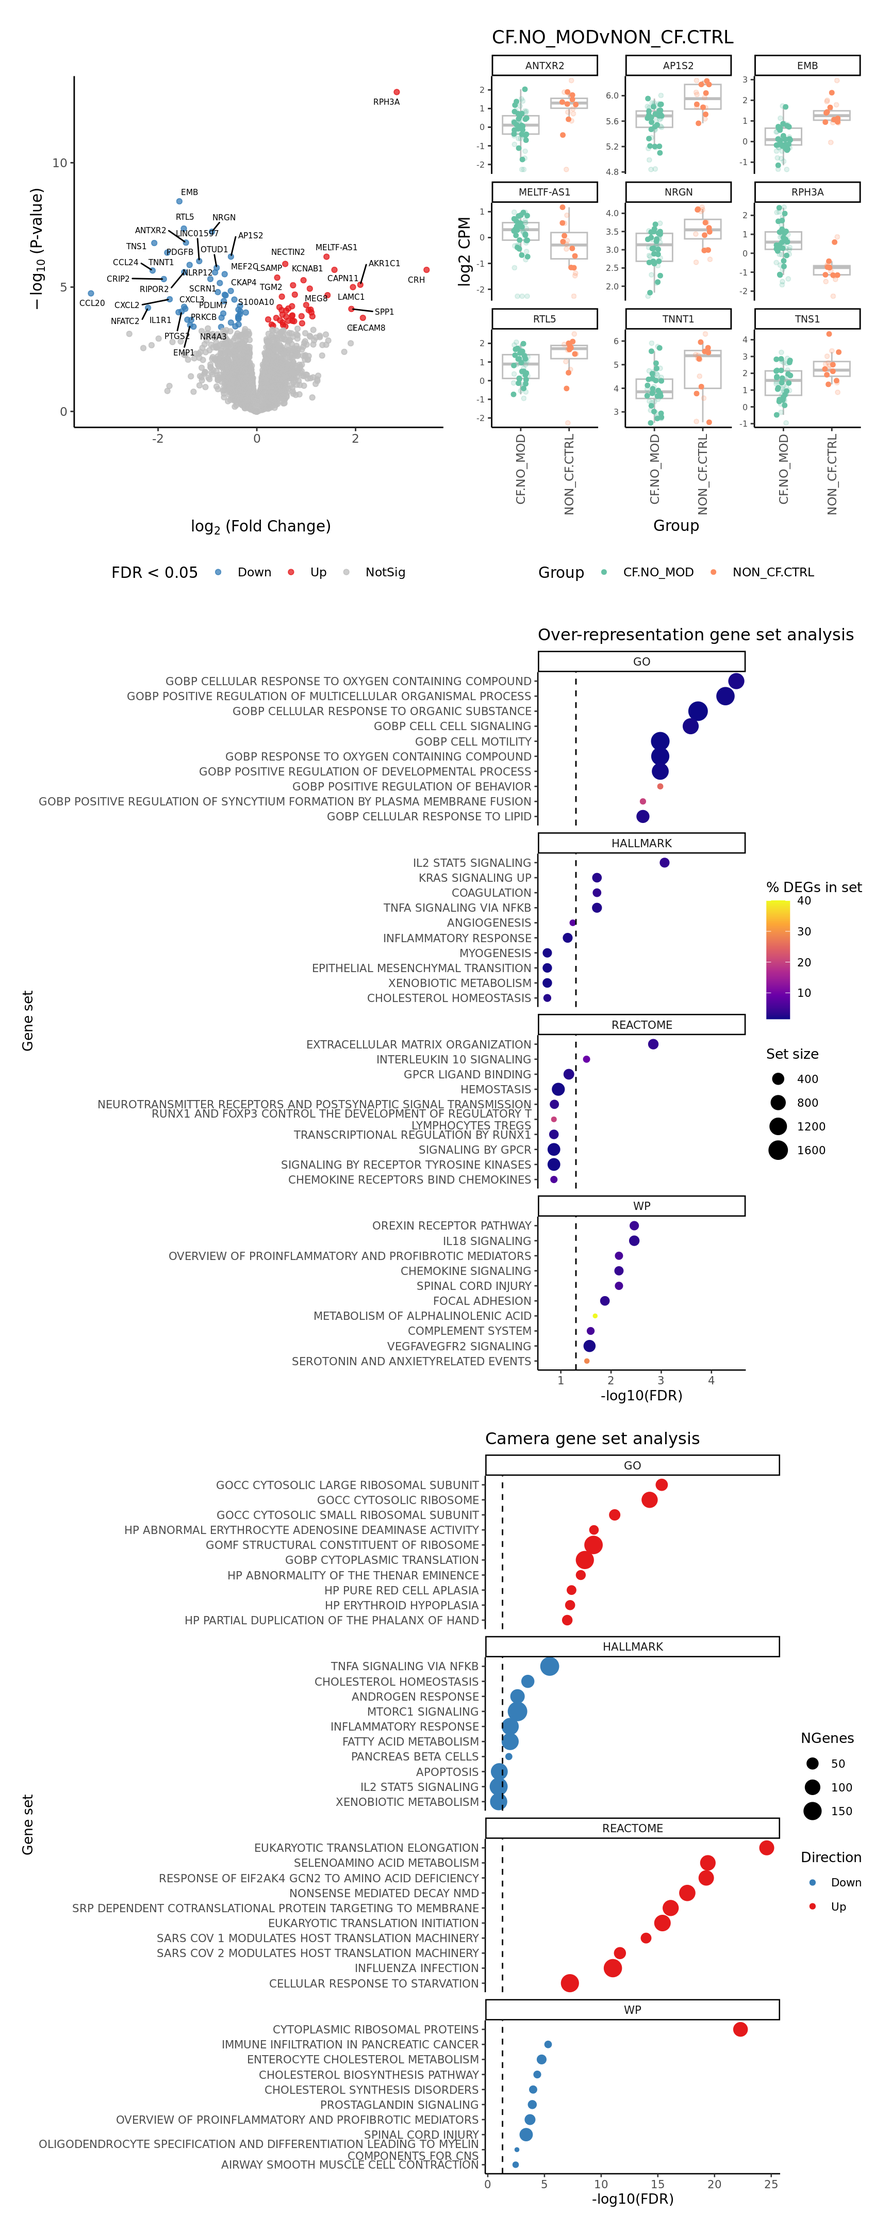
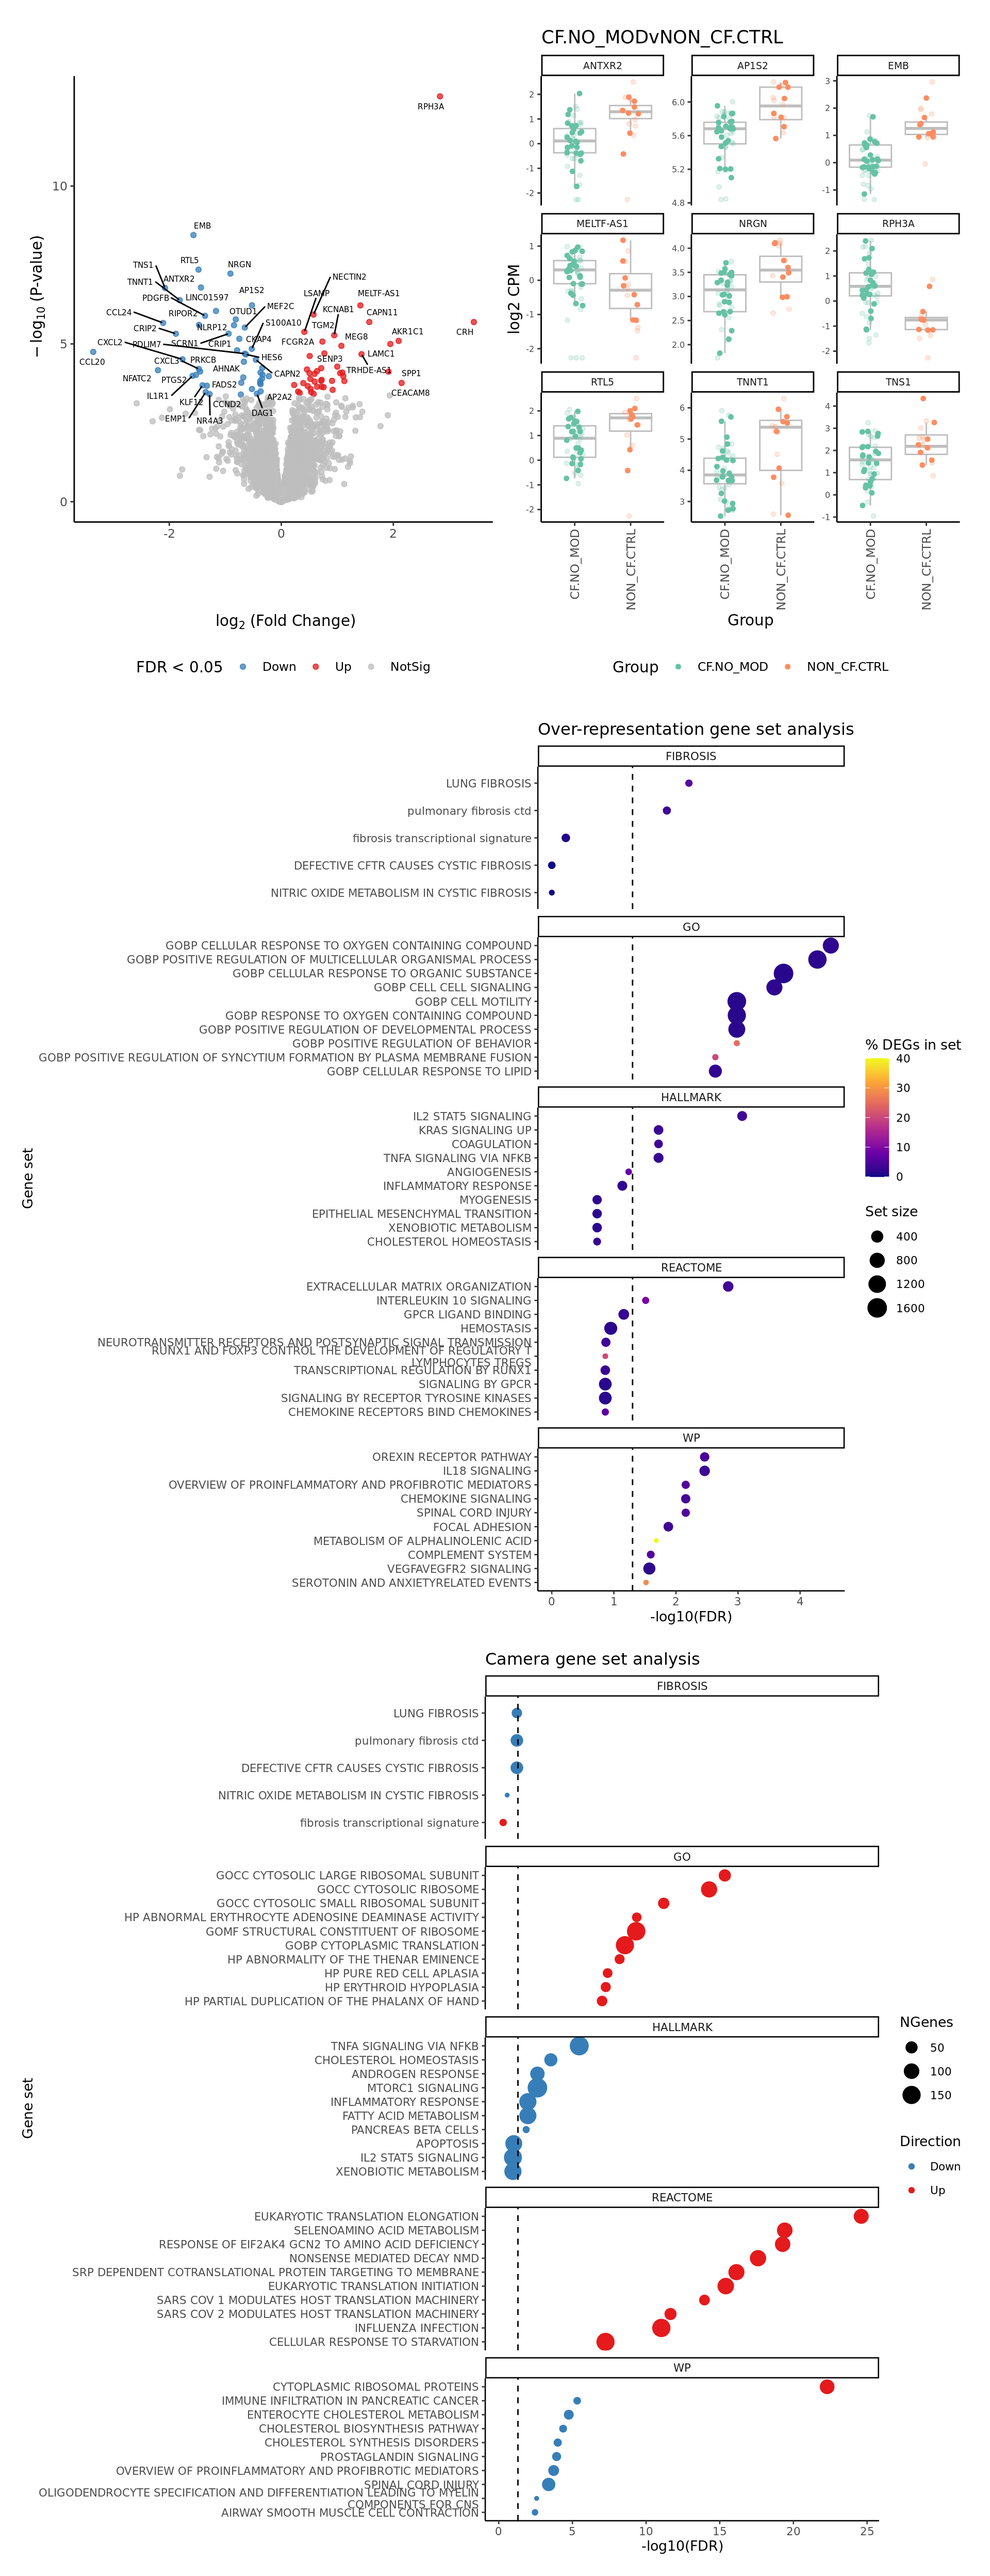
Build site.

diff --git a/docs/13.1_DGE_analysis_macro-alveolar_cells_CF-vs-control-samples.html b/docs/13.1_DGE_analysis_macro-alveolar_cells_CF-vs-control-samples.html
@@ -11,7 +11,7 @@
 
 <meta name="author" content="Jovana Maksimovic" />
 
-<meta name="date" content="2024-09-05" />
+<meta name="date" content="2024-09-06" />
 
 <title>Inflammation of Paediatric Pulmonary Diseases</title>
 
@@ -356,7 +356,7 @@ Diseases</h1>
 <h3 class="subtitle">DGE analysis of alveolar macrophages: CF versus
 Non-CF controls</h3>
 <h4 class="author">Jovana Maksimovic</h4>
-<h4 class="date">September 05, 2024</h4>
+<h4 class="date">September 06, 2024</h4>
 
 </div>
 
@@ -385,7 +385,7 @@ class="glyphicon glyphicon-ok text-success" aria-hidden="true"></span>
 <div class="tab-content">
 <div id="summary" class="tab-pane fade in active">
 <p>
-<strong>Last updated:</strong> 2024-09-05
+<strong>Last updated:</strong> 2024-09-06
 </p>
 <p>
 <strong>Checks:</strong> <span
@@ -516,15 +516,15 @@ project makes it easier to run your code on other machines.</p>
 <div class="panel panel-default">
 <div class="panel-heading">
 <p class="panel-title">
-<a data-toggle="collapse" data-parent="#workflowr-checks" href="#strongRepositoryversionstrongahrefhttpsatlassianpetermacorgaubitbucketscmospaedinflammationciteseqtreec857dab34ce100bf932250ecc7b2342180ce1bdetargetblankc857daba">
+<a data-toggle="collapse" data-parent="#workflowr-checks" href="#strongRepositoryversionstrongahrefhttpsatlassianpetermacorgaubitbucketscmospaedinflammationciteseqtree00eac6f6c08ff5a6f6949471b4e52a94977e2a10targetblank00eac6fa">
 <span class="glyphicon glyphicon-ok text-success"
 aria-hidden="true"></span> <strong>Repository version:</strong>
-<a href="https://atlassian.petermac.org.au/bitbucket/scm/os/paed-inflammation-citeseq/tree/c857dab34ce100bf932250ecc7b2342180ce1bde" target="_blank">c857dab</a>
+<a href="https://atlassian.petermac.org.au/bitbucket/scm/os/paed-inflammation-citeseq/tree/00eac6f6c08ff5a6f6949471b4e52a94977e2a10" target="_blank">00eac6f</a>
 </a>
 </p>
 </div>
 <div
[2 lines of base64/hex data omitted]
 class="panel-collapse collapse">
 <div class="panel-body">
 <p>
@@ -534,7 +534,7 @@ reproducibility.
 </p>
 <p>
 The results in this page were generated with repository version
-<a href="https://atlassian.petermac.org.au/bitbucket/scm/os/paed-inflammation-citeseq/tree/c857dab34ce100bf932250ecc7b2342180ce1bde" target="_blank">c857dab</a>.
+<a href="https://atlassian.petermac.org.au/bitbucket/scm/os/paed-inflammation-citeseq/tree/00eac6f6c08ff5a6f6949471b4e52a94977e2a10" target="_blank">00eac6f</a>.
 See the <em>Past versions</em> tab to see a history of the changes made
 to the R Markdown and HTML files.
 </p>
@@ -562,12 +562,16 @@ Untracked files:
     Untracked:  analysis/13.3_DGE_analysis_macro-monocyte-derived_CF-only-samples_OLD.Rmd
     Untracked:  analysis/13.4_DGE_analysis_macro-monocyte-derived_CF-vs-control-samples_OLD.Rmd
     Untracked:  analysis/15.0_integrate_all_cells.Rmd
+    Untracked:  output/dge_analysis/macro-alveolar/CAM.FIBROSIS.CF.NO_MOD.MvCF.NO_MOD.S.csv
+    Untracked:  output/dge_analysis/macro-alveolar/CAM.FIBROSIS.CF.NO_MODvCF.IVA.csv
     Untracked:  output/dge_analysis/macro-alveolar/CAM.GO.CF.NO_MOD.MvCF.NO_MOD.S.csv
     Untracked:  output/dge_analysis/macro-alveolar/CAM.GO.CF.NO_MODvCF.IVA.csv
     Untracked:  output/dge_analysis/macro-alveolar/CAM.REACTOME.CF.NO_MOD.MvCF.NO_MOD.S.csv
     Untracked:  output/dge_analysis/macro-alveolar/CAM.REACTOME.CF.NO_MODvCF.IVA.csv
     Untracked:  output/dge_analysis/macro-alveolar/CAM.WP.CF.NO_MOD.MvCF.NO_MOD.S.csv
     Untracked:  output/dge_analysis/macro-alveolar/CAM.WP.CF.NO_MODvCF.IVA.csv
+    Untracked:  output/dge_analysis/macro-alveolar/ORA.FIBROSIS.CF.NO_MOD.MvCF.NO_MOD.S.csv
+    Untracked:  output/dge_analysis/macro-alveolar/ORA.FIBROSIS.CF.NO_MODvCF.IVA.csv
     Untracked:  output/dge_analysis/macro-alveolar/ORA.GO.CF.NO_MOD.MvCF.NO_MOD.S.csv
     Untracked:  output/dge_analysis/macro-alveolar/ORA.GO.CF.NO_MODvCF.IVA.csv
     Untracked:  output/dge_analysis/macro-alveolar/ORA.REACTOME.CF.NO_MOD.MvCF.NO_MOD.S.csv
@@ -769,6 +773,40 @@ Message
 </tr>
 </thead>
 <tbody>
+<tr>
+<td>
+Rmd
+</td>
+<td>
+<a href="https://atlassian.petermac.org.au/bitbucket/scm/os/paed-inflammation-citeseq/blob/00eac6f6c08ff5a6f6949471b4e52a94977e2a10/analysis/13.1_DGE_analysis_macro-alveolar_cells_CF-vs-control-samples.Rmd" target="_blank">00eac6f</a>
+</td>
+<td>
+Jovana Maksimovic
+</td>
+<td>
+2024-09-06
+</td>
+<td>
+wflow_publish("analysis/13.1_DGE_analysis_macro-alveolar_cells_CF-vs-control-samples.Rmd")
+</td>
+</tr>
+<tr>
+<td>
+html
+</td>
+<td>
+<a href="https://atlassian.petermac.org.au/bitbucket/scm/os/paed-inflammation-citeseq/blob/737659717f058e5d4cbf684571e8d1f0125b7417/docs/13.1_DGE_analysis_macro-alveolar_cells_CF-vs-control-samples.html" target="_blank">7376597</a>
+</td>
+<td>
+Jovana Maksimovic
+</td>
+<td>
+2024-09-05
+</td>
+<td>
+Build site.
+</td>
+</tr>
 <tr>
 <td>
 html
@@ -4245,10 +4283,16 @@ pathways.</p>
 Hs.h.all &lt;- convert_gmt_to_list(here(&quot;data/h.all.v2024.1.Hs.entrez.gmt&quot;)) 
 Hs.c5.all &lt;- convert_gmt_to_list(here(&quot;data/c5.all.v2024.1.Hs.entrez.gmt&quot;))
 
+fibrosis &lt;- create_custom_gene_lists_from_file(here(&quot;data/fibrosis_gene_sets.csv&quot;))
+# add fibrosis sets from REACTOME and WIKIPATHWAYS
+fibrosis &lt;- c(lapply(fibrosis, function(l) l[!is.na(l)]),
+              Hs.c2.all[str_detect(names(Hs.c2.all), &quot;FIBROSIS&quot;)])
+
 gene_sets_list &lt;- list(HALLMARK = Hs.h.all,
                        GO = Hs.c5.all,
                        REACTOME = Hs.c2.all[str_detect(names(Hs.c2.all), &quot;REACTOME&quot;)],
-                       WP = Hs.c2.all[str_detect(names(Hs.c2.all), &quot;^WP&quot;)]) </code></pre>
+                       WP = Hs.c2.all[str_detect(names(Hs.c2.all), &quot;^WP&quot;)],
+                       FIBROSIS = fibrosis) </code></pre>
 <p>Plot a detailed summary of the results.</p>
 <pre class="r"><code>layout &lt;- &quot;
       AAAA
@@ -4272,7 +4316,7 @@ plot_ruv_results_summary(contr, cutoff, cellDir, gene_sets_list, gns,
                          pal) -&gt; p
 p</code></pre>
 <pre><code>[[1]]</code></pre>
-<p><img src="figure/13.1_DGE_analysis_macro-alveolar_cells_CF-vs-control-samples.Rmd/unnamed-chunk-33-1.png" width="864" style="display: block; margin: auto;" /></p>
+<p><img src="figure/13.1_DGE_analysis_macro-alveolar_cells_CF-vs-control-samples.Rmd/unnamed-chunk-33-1.png" width="960" style="display: block; margin: auto;" /></p>
 <p>
 <button type="button" class="btn btn-default btn-xs btn-workflowr btn-workflowr-fig" data-toggle="collapse" data-target="#fig-unnamed-chunk-33-1">
 Past versions of unnamed-chunk-33-1.png
@@ -4297,6 +4341,17 @@ Date
 <tbody>
 <tr>
 <td>
+<a href="https://atlassian.petermac.org.au/bitbucket/scm/os/paed-inflammation-citeseq/blob/737659717f058e5d4cbf684571e8d1f0125b7417/docs/figure/13.1_DGE_analysis_macro-alveolar_cells_CF-vs-control-samples.Rmd/unnamed-chunk-33-1.png" target="_blank">7376597</a>
+</td>
+<td>
+Jovana Maksimovic
+</td>
+<td>
+2024-09-05
+</td>
+</tr>
+<tr>
+<td>
 <a href="https://atlassian.petermac.org.au/bitbucket/scm/os/paed-inflammation-citeseq/blob/8c189d26ecf23a953699b6a82c7ea086160cc207/docs/figure/13.1_DGE_analysis_macro-alveolar_cells_CF-vs-control-samples.Rmd/unnamed-chunk-33-1.png" target="_blank">8c189d2</a>
 </td>
 <td>
@@ -4312,7 +4367,7 @@ Jovana Maksimovic
 </div>
 <pre><code>
 [[2]]</code></pre>
-<p><img src="figure/13.1_DGE_analysis_macro-alveolar_cells_CF-vs-control-samples.Rmd/unnamed-chunk-33-2.png" width="864" style="display: block; margin: auto;" /></p>
+<p><img src="figure/13.1_DGE_analysis_macro-alveolar_cells_CF-vs-control-samples.Rmd/unnamed-chunk-33-2.png" width="960" style="display: block; margin: auto;" /></p>
 <p>
 <button type="button" class="btn btn-default btn-xs btn-workflowr btn-workflowr-fig" data-toggle="collapse" data-target="#fig-unnamed-chunk-33-2">
 Past versions of unnamed-chunk-33-2.png
@@ -4417,6 +4472,17 @@ Date
 </tr>
 </thead>
 <tbody>
+<tr>
+<td>
+<a href="https://atlassian.petermac.org.au/bitbucket/scm/os/paed-inflammation-citeseq/blob/737659717f058e5d4cbf684571e8d1f0125b7417/docs/figure/13.1_DGE_analysis_macro-alveolar_cells_CF-vs-control-samples.Rmd/unnamed-chunk-34-1.png" target="_blank">7376597</a>
+</td>
+<td>
+Jovana Maksimovic
+</td>
+<td>
+2024-09-05
+</td>
+</tr>
 <tr>
 <td>
 <a href="https://atlassian.petermac.org.au/bitbucket/scm/os/paed-inflammation-citeseq/blob/8c189d26ecf23a953699b6a82c7ea086160cc207/docs/figure/13.1_DGE_analysis_macro-alveolar_cells_CF-vs-control-samples.Rmd/unnamed-chunk-34-1.png" target="_blank">8c189d2</a>
